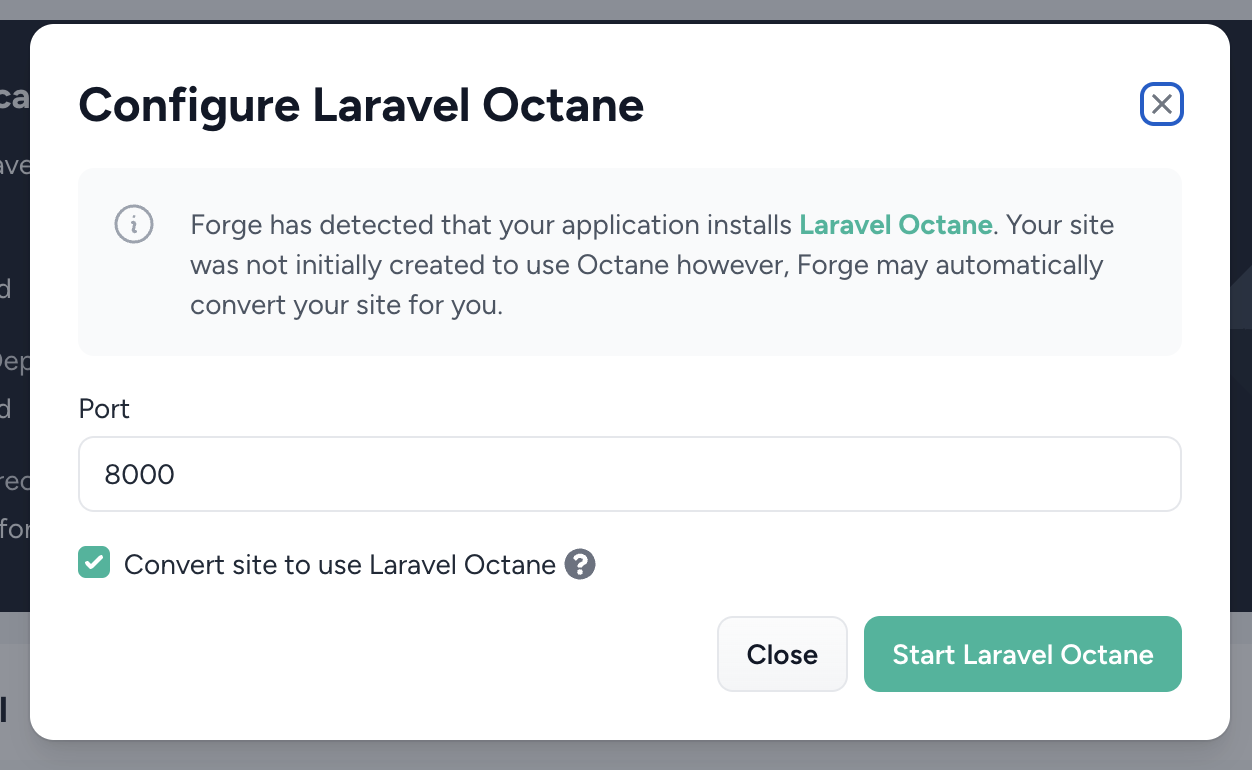
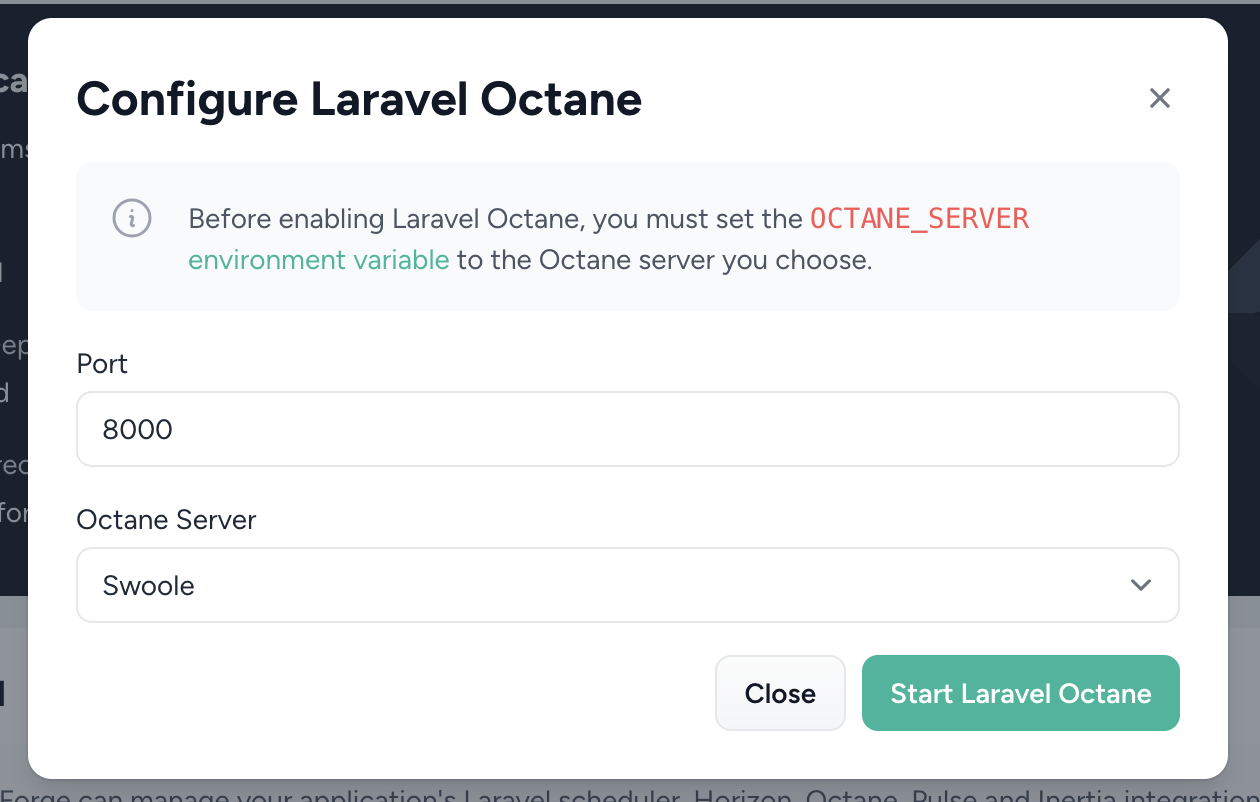
Update octane docs (#196)
* update octane docs

* update wording

* Update applications.md

---------

diff --git a/src/sites/the-basics.md b/src/sites/the-basics.md
@@ -8,7 +8,7 @@ When creating a new site on your Forge server, a variety of configuration option
 
 - **Root Domain:** The domain name that the server should respond to.
 - **Aliases:** Additional domains that the site should respond to.
-- **Project Type:** This configuration setting indicates if the project installed for your site will be a General PHP / Laravel project, Laravel Octane, a Symfony project, or a static HTML site. This setting is used to determine the structure of the Nginx configuration file that is created for your site.
+- **Project Type:** This configuration setting indicates if the project installed for your site will be a General PHP / Laravel / Symfony project or a static HTML site. This setting is used to determine the structure of the Nginx configuration file that is created for your site.
 - **Web Directory:** The directory that should be publicly accessible via the Internet. For Laravel applications, this is typically the `/public` directory.
 - **PHP Version:** If you have multiple versions of PHP installed on your server, you can select which one should be used to serve the site.
 - **Nginx Template**: If you have configured any [Nginx Templates](/servers/nginx-templates) for you server, you will have the option to select one as the site's Nginx configuration, otherwise Forge will utilise its default Nginx configuration for you new site.

diff --git a/src/sites/applications.md b/src/sites/applications.md
@@ -36,13 +36,18 @@ If your server is already configured with a daemon that runs Laravel Horizon, Fo
 
 ## Laravel Octane
 
-You may quickly enable or disable the Laravel Octane daemon via the "Laravel Octane" toggle. Forge will create the required Octane daemon for you.
+You may quickly enable or disable the Laravel Octane daemon via the "Laravel Octane" toggle. Forge will create the required Octane daemon and install Octane dependencies for you.
 
-When enabling the Octane daemon, Forge will ask you to provide a few more details. If you previously created your site without selecting the "Laravel Octane" project type, Forge will also offer to convert the site's Nginx configuration to use Laravel Octane.
+When enabling the Octane daemon, Forge will ask you to provide the port number you would like to use for the Octane server as well as your Octane server of choice.
 
 ![Enabling Laravel Octane](/img/laravel-octane-application.png)
 
 If the site's deploy script does not contain the `octane:reload` command, Forge will automatically append it for you.
+
+:::tip Before Enabling Octane
+
+Before enabling Laravel Octane, you must set the `OCTANE_SERVER` environment variable to the Octane server you choose.
+:::
 
 ### Converting Existing Daemons
 
